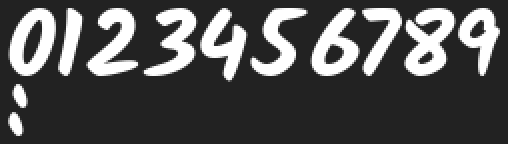
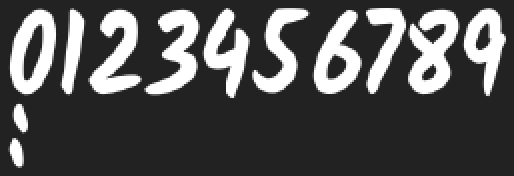
Bolder heart-rate label; taller Handwritten time (1.0.1)
- REST / MAX label under the heart rate in the text colour, like the week
  number (owner's choice L1): grey was too light to read on the watch.
  The other small labels stay grey.
- Handwritten time: Kalam at 44 px digits instead of 35 px, glyphs
  narrowed to 83.8 % so the widest time (22:28) still fits the 127 px
  every style shares (owner's choice H2 from rendered options at 41, 44
  and 47 px). Ducks follow the new digit height. The week number clears
  the side panel by at least 5 px at every minute.
- make_fonts.py: xscale option, narrowing with a box filter (Lanczos
  left faint stripes inside the strokes).
- Spec, docs (colour, fonts, time styles, constants, decisions) and the
  Handwritten screenshot updated.

Checked in the simulator with and without ducks. Builds without warnings.
Memory unchanged: Handwritten with ducks 50.6 KB of 126.8 KB (debug), the
same as before.

diff --git a/tools/make_fonts.py b/tools/make_fonts.py
@@ -24,21 +24,26 @@ MONTHS = ["JANUARY", "FEBRUARY", "MARCH", "APRIL", "MAY", "JUNE", "JULY",
 #   "threshold" pixels at least half covered are inked; crisp small digits.
 #   "mono"      FreeType's hinted 1-bit render; cleanest stems at tiny sizes.
 #
-# name, source TTF, pixel size, glyphs, edge mode, gap[, space]
+# name, source TTF, pixel size, glyphs, edge mode, gap[, space[, fixed[, xscale]]]
 #   gap None: the font's own spacing (side bearings kept).
 #   gap n:    drop side bearings and space every glyph exactly n px from the
 #             next (xadvance = ink width + n); `space` is the word gap in px.
 #   fixed:    with a gap, every glyph gets the width of the widest one (glyph
 #             centred in its cell), so numbers do not shift as digits change.
+#   xscale:   narrow (< 1) each glyph horizontally after rendering; offsets and
+#             advances scale with it. Makes a wide font taller within a fixed width.
 FONTS = [
     # 64 px as in the spec.
     ("time", "BarlowCondensed-SemiBold.ttf", 64, "0123456789:", "aa", None),
     # Time-font setting (owner's choice 2026-11-20, previews in tools/preview).
     # Each size is the largest whose widest time (with the code's tracking)
     # still fits the 127 px the Barlow time takes at 00:00, so the week number
-    # always clears the side panel: Saira 41 px digits, Kalam 35 px digits.
+    # always clears the side panel: Saira 41 px digits.
     ("time_saira", "SairaCondensed-ExtraBold.ttf", 60, "0123456789:", "aa", None),
-    ("time_kalam", "Kalam-Bold.ttf", 48, "0123456789:", "aa", None),
+    # Kalam is wide: at full width it fits only at 35 px digits. Owner's choice
+    # (option H2, 2026-11-21): 44 px digits, glyphs narrowed to 83.8 % so the
+    # widest time (22:28) still fits the 127 px.
+    ("time_kalam", "Kalam-Bold.ttf", 58, "0123456789:", "aa", None, None, False, 0.838),
     # Small numbers with hard edges (system fonts were too light on the MIP
     # screen). Hinting only lands on some digit heights, so the sizes are the
     # nearest to the mockup:
@@ -91,7 +96,7 @@ HAND_DRAWN = {
 }
 
 
-def build(name, ttf, size, glyphs, mode, gap, space=None, fixed=False):
+def build(name, ttf, size, glyphs, mode, gap, space=None, fixed=False, xscale=1.0):
     font = ImageFont.truetype(os.path.join(SRC, ttf), size)
     ascent, descent = font.getmetrics()
 
@@ -114,6 +119,8 @@ def build(name, ttf, size, glyphs, mode, gap, space=None, fixed=False):
             continue
         ix0, iy0, ix1, iy1 = canvas.getbbox()
         mask = canvas.crop((ix0, iy0, ix1, iy1))
+        if xscale != 1.0:
+            mask = mask.resize((max(1, round(mask.width * xscale)), mask.height), Image.BOX)
         hand = HAND_DRAWN.get(name, {}).get(ch)
         if hand is not None:
             # Replace the rendered glyph; keep it on the baseline.
@@ -126,7 +133,7 @@ def build(name, ttf, size, glyphs, mode, gap, space=None, fixed=False):
         if gap is not None:
             cells.append((ch, mask, 0, iy0 - m, mask.width + gap))
         else:
-            cells.append((ch, mask, ix0 - m, iy0 - m, round(font.getlength(ch))))
+            cells.append((ch, mask, round((ix0 - m) * xscale), iy0 - m, round(font.getlength(ch) * xscale)))
 
     if fixed and gap is not None:
         cell = max(mask.width for _, mask, *_ in cells)

diff --git a/docs/graphics/colour.md b/docs/graphics/colour.md
@@ -9,7 +9,7 @@ project's rule is that every colour in the source must be one of the 64, and `Pa
 | Role | Value | |
 |------|-------|-|
 | Background | `#FFFFFF` | <span style="display:inline-block;width:1.2em;height:1.2em;background:#FFFFFF;border:1px solid #999"></span> |
-| Small labels | `#555555` | <span style="display:inline-block;width:1.2em;height:1.2em;background:#555555"></span> |
+| Small labels (moon phase, BODY BAT, KM) | `#555555` | <span style="display:inline-block;width:1.2em;height:1.2em;background:#555555"></span> |
 | Bar track | `#AAAAAA` | <span style="display:inline-block;width:1.2em;height:1.2em;background:#AAAAAA"></span> |
 | Red: icons and bars | `#FF0000` | <span style="display:inline-block;width:1.2em;height:1.2em;background:#FF0000"></span> |
 | Red: numbers | `#AA0000` | <span style="display:inline-block;width:1.2em;height:1.2em;background:#AA0000"></span> |
@@ -23,6 +23,10 @@ project's rule is that every colour in the source must be one of the 64, and `Pa
     Each signal colour has a bright shade for **areas** (icons, bars) and a dark shade for **numbers**. Digits
     are thin strokes on white, so they get the darker, higher-contrast shade, while icons and bars, which have more
     area, carry the brighter one.
+
+The `REST` / `MAX` label under the heart rate uses the **text colour** rather than the label grey. It is a value
+the wearer reads, not a caption, and in grey its 1 px letter strokes were too light on the watch. It now matches
+the week number, which uses the same font.
 
 ## Colour rules
 
@@ -80,7 +84,7 @@ smoother. Thin strokes at small sizes look blurred and grey. The face decides pe
 
 | Element | Edges | Why |
 |---------|-------|-----|
-| Classic, Bold, Handwritten time digits | anti-aliased bitmap font | Large glyphs (35–47 px) benefit from smooth curves. |
+| Classic, Bold, Handwritten time digits | anti-aliased bitmap font | Large glyphs (41–47 px) benefit from smooth curves. |
 | Dot-matrix time | anti-aliased `fillCircle` | Round dots at about 6 px look like squares without it. |
 | Rubber duck | anti-aliased polygons and circles | Except in the LCD style, where the segments are hard-edged. |
 | LCD time | hard edges | Matches real 7-segment displays. |

diff --git a/docs/graphics/fonts.md b/docs/graphics/fonts.md
@@ -18,11 +18,11 @@ size, with the right edge treatment.
 All fonts come from one declarative table:
 
 ```python
-# name, source TTF, pixel size, glyphs, edge mode, gap[, space[, fixed]]
+# name, source TTF, pixel size, glyphs, edge mode, gap[, space[, fixed[, xscale]]]
 FONTS = [
     ("time",       "BarlowCondensed-SemiBold.ttf", 64, "0123456789:", "aa", None),
     ("time_saira", "SairaCondensed-ExtraBold.ttf", 60, "0123456789:", "aa", None),
-    ("time_kalam", "Kalam-Bold.ttf",               48, "0123456789:", "aa", None),
+    ("time_kalam", "Kalam-Bold.ttf",               58, "0123456789:", "aa", None, None, False, 0.838),
     ("num12", "BarlowCondensed-Bold.ttf",     17, "0123456789%d-,.", "threshold", None),
     ("num13", "BarlowCondensed-Bold.ttf",     18, "0123456789%d-",   "threshold", None),
     ("num11", "BarlowCondensed-Bold.ttf",     14, "0123456789%d-",   "threshold", None),
@@ -149,8 +149,13 @@ Rendered from `resources/fonts/*.png` on a dark tile so the white glyphs are vis
 The two extra time fonts had to fit **exactly** the box the classic time uses: digits at most 47 px tall, and the
 widest possible time at most 127 px including the code's tracking, so the week number always clears the side panel.
 The size in the table is the largest that passes over **all 1,440 times**, found with the
-[preview renderer](../tooling/preview.md). That gives 41 px digits for Saira and 35 px for Kalam, whose
-handwritten glyphs are much wider for their height.
+[preview renderer](../tooling/preview.md). That gives 41 px digits for Saira.
+
+Kalam's handwritten glyphs are much wider for their height: at full width they fit only at 35 px, which looked
+short next to the other styles. The generator's `xscale` option narrows each glyph after rendering, with its offset
+and advance scaled to match. At 83.8 % Kalam reaches 44 px digits and its widest time (`22:28`) still fits. The
+narrowing uses an area-averaging (box) filter, which can't overshoot. A sharper filter such as Lanczos rings at the
+stroke edges, leaving slightly transparent stripes inside solid strokes.
 
 ## Licensing
 

diff --git a/design/spec.md b/design/spec.md
@@ -82,7 +82,7 @@ Use only the 64 MIP colours: each of red, green and blue is 00, 55, AA or FF.
 | Background | #FFFFFF |
 | Text colour (setting) | default #000000; options #000000 (black), #000055 (navy), #550055 (dark purple) |
 | Accent (setting) | default #FF5500; options #FF5500 (orange), #AA00AA (magenta), #FFAA00 (amber) |
-| Small labels | #555555 |
+| Small labels | #555555 (except the REST / MAX heart-rate label: text colour, changed 2026-11-21 because grey was too light on the watch) |
 | Bar track (unfilled part) | #AAAAAA |
 | Date block text | #FFFFFF |
 | Red: icons and bars | #FF0000 |
@@ -167,7 +167,8 @@ Moon labels: NEW, WAX CRES, 1ST QTR, WAX GIB, FULL, WAN GIB, LAST QTR, WAN CRES.
   - LCD: Casio-style 7-segment digits drawn in code, 47 px, slanted, hard edges.
   - Dot matrix: 5×7 grid of round anti-aliased dots drawn in code, 45 px. The zero is slashed and the 1 has a wide
     foot (after the BRAZEN "GHOSTLINE" face).
-  - Handwritten: Kalam Bold, 35 px digits.
+  - Handwritten: Kalam Bold, 44 px digits, glyphs narrowed to 83.8 % so the widest time still fits (changed 2026-11-21;
+    was 35 px at full width, which looked short next to the other styles).
 - Rubber duck mode (added 2026-11-20): Off (default) or On. When on, every 2 in the hours and minutes (nothing
   else) is drawn as a rubber duck in the 2's own box: yellow body (0xFFFF00), orange beak (0xFF5500, fixed, not the
   accent), outlined in the text colour. The duck is as tall as the digits and no wider than the 2. It has a round

diff --git a/docs/process/decisions.md b/docs/process/decisions.md
@@ -12,6 +12,8 @@ spec or a commit message, and has a reason. This page collects them.
 | Text and accent options exclude red, green and blue | A broader list including dark green, dark red, blue, red, green | Those colours would make some colour-rule warnings invisible. |
 | `REST` / `MAX` heart-rate label setting | Resting heart rate only | Added as an option. `MAX` reuses the graph's data (the tallest bar). |
 | Five time styles and rubber duck mode | One time font | Picked from rendered previews. All five fit the original time box exactly. |
+| `REST` / `MAX` label in the text colour (2026-11-21) | Grey like the other small labels | It was too light to read on the watch. It now matches the week number, which uses the same font. |
+| Handwritten at 44 px, glyphs narrowed to 84 % (2026-11-21) | 35 px at full width | It looked short next to the other styles. Chosen from rendered options at 41, 44 and 47 px. |
 | Duck colours fixed (yellow, orange beak) | Beak in the accent colour | A magenta or amber beak no longer reads as a duck. |
 
 ## Engineering decisions

diff --git a/docs/graphics/time-styles.md b/docs/graphics/time-styles.md
@@ -54,7 +54,7 @@ number and seconds from those values, so it doesn't need to know which style is 
 | Bold | Saira Condensed ExtraBold bitmap font | 41 px | one 4 KB PNG atlas |
 | LCD | 7 hexagonal polygons per digit, slanted | 47 px | no resource |
 | Dot matrix | 5 × 7 grid of anti-aliased circles | 45.4 px | no resource |
-| Handwritten | Kalam Bold bitmap font | 35 px | one 5 KB PNG atlas |
+| Handwritten | Kalam Bold bitmap font, glyphs narrowed to 84 % | 44 px | one 8 KB PNG atlas |
 
 ## Lifecycle: configure, layout, draw
 

diff --git a/docs/reference/constants.md b/docs/reference/constants.md
@@ -48,7 +48,7 @@ All geometry is in pixels on the 260 × 260 spec canvas and is scaled by `dc.get
 | Bold | 41 | −1.2 | 2's ink box: x offset 1, width 25 |
 | LCD | 47 | — | cell 23, stroke 5, gap 1, slant 0.10, pitch 28, colon 12 |
 | Dot matrix | 45.4 | — | pitch 5.5 × 6.6, dot 5.8, digit gap 0.5 columns, colon dot 3.6 |
-| Handwritten | 35 | 0 | 2's ink box width 27, duck inset 2 |
+| Handwritten | 44 | 0 | glyphs narrowed to 83.8 %, 2's ink box width 27, duck inset 2 |
 
 ## Duck (unit coordinates)
 

diff --git a/docs/tooling/preview.md b/docs/tooling/preview.md
@@ -37,7 +37,8 @@ def all_times():
 ```
 
 The fitted size and the margin to the side panel are reported for each option, and those numbers went straight
-into `make_fonts.py` (Saira at 41 px digits, Kalam at 35 px).
+into `make_fonts.py` (Saira at 41 px digits). A later round used the same fitting to make Handwritten taller:
+Kalam narrowed to 84 % reaches 44 px digits within the same 127 px.
 
 ## Scripts
 
